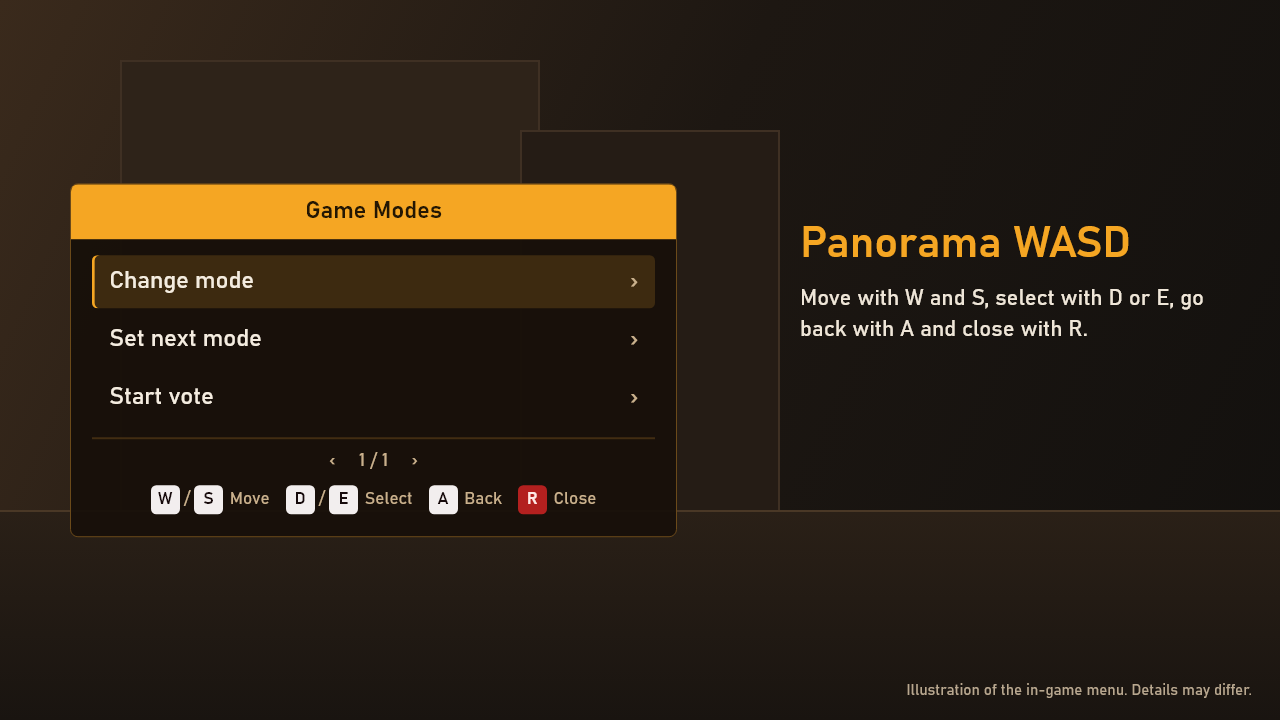
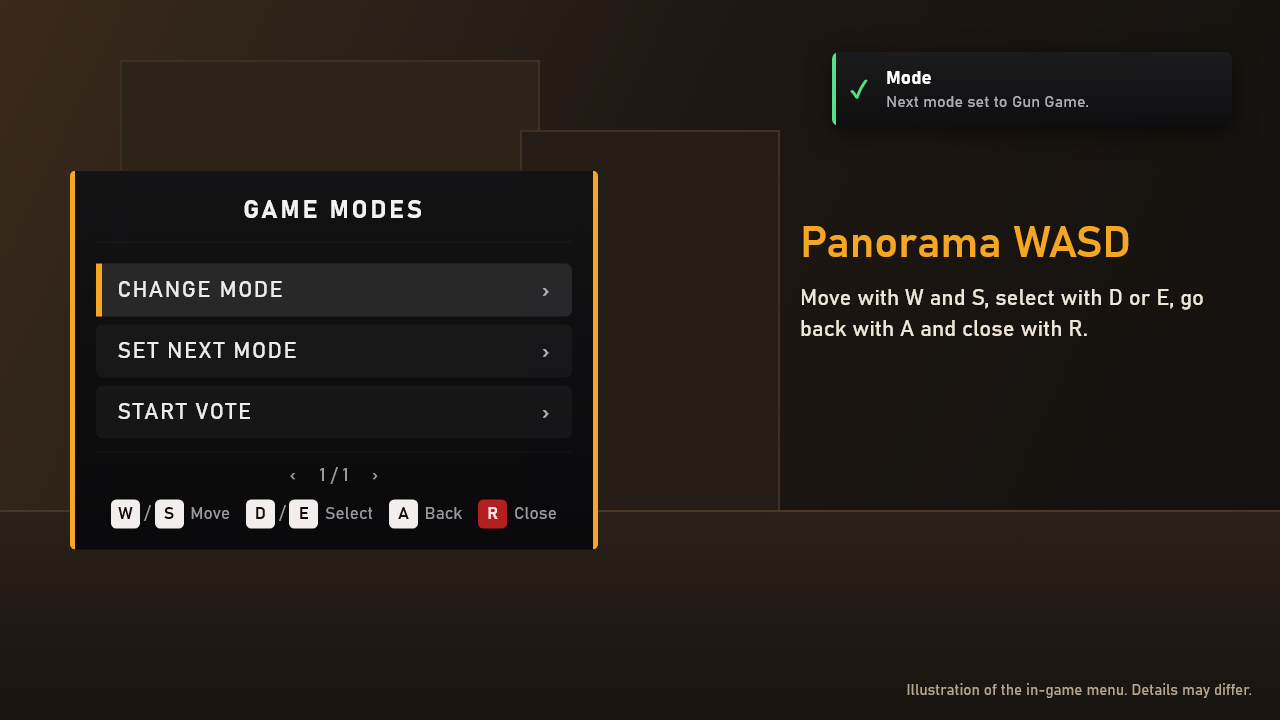
chore: one Mono look for the menus, vote panels, admin panel and notifications (#75)
Menus, vote panels, the admin panel and notifications share PMM's Mono background, outline and blur. Empty menu rows are hidden, the vote panel has key buttons in mouse mode, and the admin panel uses the menus' grey text with a subtle highlight. The mockups, README pictures and Workshop pictures are redrawn.

diff --git a/addon/mockups/scenes.html b/addon/mockups/scenes.html
@@ -10,12 +10,14 @@ html,body{width:1280px;height:720px;overflow:hidden;background:#12100e;font-fami
 .host{position:absolute;left:70px;top:50%;transform:translateY(-50%)}
 .host>*{zoom:1.32}
 .side{position:absolute;left:800px;top:220px;width:420px}
+.ntf{position:absolute;display:flex;align-items:center;width:400px;min-height:74px;background:linear-gradient(180deg,rgba(28,28,31,.95),rgba(14,14,16,.96));border-radius:7px;box-shadow:0 6px 24px rgba(0,0,0,.55);overflow:hidden;z-index:5;backdrop-filter:blur(4px)}.ntf::before{content:"";position:absolute;left:0;top:0;bottom:0;width:4px;background:#57e08a}.ntf.warn::before{background:#ffcf5c}.ntf .ni{width:54px;flex:none;text-align:center;font-size:24px;font-weight:700;color:#57e08a}.ntf.warn .ni{color:#ffcf5c}.ntf .nb{padding:12px 18px 12px 0}.ntf .nt{font-size:19px;font-weight:700;color:#fff}.ntf .nx{font-size:16px;color:#b0b0b4;margin-top:3px}
+.stage>.ntf{top:52px;right:48px}
 .side h1{font-size:44px;font-weight:600;color:#f5a623;line-height:1.1}
 .side p{margin-top:16px;font-size:22px;line-height:1.4;color:#efe6d8}
 .note{position:absolute;right:28px;bottom:20px;font-size:15px;color:#b8a78f}
 .brandline{position:absolute;right:28px;top:22px;font-size:15px;letter-spacing:1px;color:#b8a78f}
 
-.pm{width:400px;background:linear-gradient(180deg,rgba(18,18,20,.92),rgba(8,8,10,.95));border-radius:4px;position:relative;overflow:hidden}
+.pm{width:400px;background:linear-gradient(180deg,rgba(18,18,20,.92),rgba(8,8,10,.95));border-radius:4px;position:relative;overflow:hidden;backdrop-filter:blur(4px)}
 .pm::before,.pm::after{content:"";position:absolute;top:0;bottom:0;width:4px;background:#f5a623;z-index:2}.pm::before{left:0}.pm::after{right:0}
 .pm .band{height:46px;padding:14px 72px 0;box-sizing:border-box;white-space:nowrap;color:#f2f2f2;font-size:19px;font-weight:700;letter-spacing:2px;text-transform:uppercase;display:flex;align-items:center;justify-content:center}
 .pm .ic{position:absolute;top:10px;width:24px;height:24px;color:#c8c8cc;font-size:20px;line-height:24px;text-align:center;font-weight:700}
@@ -40,12 +42,12 @@ html,body{width:1280px;height:720px;overflow:hidden;background:#12100e;font-fami
 .cg .r.off{color:#e9e4d0}
 .cg .gap{height:14px}
 
-.mv{width:420px;background:linear-gradient(180deg,#161c28f2,#0b0f17f2);border:1px solid #f5a623aa;border-radius:12px;padding:14px 16px 16px}
+.mv{width:420px;background:linear-gradient(180deg,rgba(18,18,20,.92),rgba(8,8,10,.95));border:1px solid #ffffff14;border-radius:12px;padding:14px 16px 16px;backdrop-filter:blur(4px)}
 .mv .head{display:flex;align-items:center;gap:10px}
 .mv .ht{flex:1}.mv .br{font-size:12px;letter-spacing:2px;color:#f5a623}.mv .ti{font-size:26px;color:#fff;font-weight:600}
 .mv .tm{height:30px;padding:0 12px;line-height:28px;border:1px solid #f5a62399;border-radius:15px;background:#f5a6231a;color:#f5a623;font-size:15px;font-weight:600}
 .mv .tb{height:3px;background:#ffffff14;border-radius:2px;margin:10px 0 12px}.mv .tb i{display:block;height:3px;width:62%;background:#f5a623;border-radius:2px}
-.mv .ro{display:flex;align-items:center;gap:10px;padding:7px 8px;border-radius:8px;margin-bottom:6px;background:#ffffff0d}
+.mv .ro{display:flex;align-items:center;gap:10px;padding:7px 8px;border-radius:8px;margin-bottom:6px;background:#ffffff0a}
 .mv .ro.me{background:#f5a6231f;box-shadow:inset 0 0 0 1px #f5a62380}
 .mv .n{width:24px;height:24px;border-radius:12px;background:#ffffff1f;text-align:center;line-height:24px;font-size:13px;font-weight:600;flex:none}
 .mv .art{width:80px;height:45px;border-radius:4px;background-size:cover;background-position:center;flex:none;background-color:#222}
@@ -53,22 +55,22 @@ html,body{width:1280px;height:720px;overflow:hidden;background:#12100e;font-fami
 .mv .ln{display:flex;align-items:center;gap:6px;font-size:17px;color:#fff;font-weight:600}
 .mv .bd{font-size:11px;padding:1px 5px;border-radius:3px;color:#10131a;background:#f5a623}
 .mv .bar{height:4px;background:#ffffff14;border-radius:2px;margin-top:6px}.mv .bar i{display:block;height:4px;background:#f5a623;border-radius:2px}
-.mv .vf{display:flex;align-items:center;margin-top:9px;font-size:12px;color:#c9cfdc;white-space:nowrap}.mv .vf .vk{width:18px;height:18px;line-height:18px;text-align:center;font-size:11px;background:#f2eeee;color:#160a0b;border-radius:3px;font-weight:600}.mv .vf .vo{margin:0 3px}.mv .vf .vn{margin:0 10px 0 4px}.mv .vf .vc{margin-left:auto}
+.mv .vf{display:flex;align-items:center;margin-top:9px;font-size:12px;color:#9a9a9e;white-space:nowrap}.mv .vf .vk{width:18px;height:18px;line-height:18px;text-align:center;font-size:11px;background:#f2eeee;color:#160a0b;border-radius:3px;font-weight:600}.mv .vf .vo{margin:0 3px}.mv .vf .vn{margin:0 10px 0 4px}.mv .vf .vc{margin-left:auto}
 .mv .c{width:24px;text-align:right;font-size:17px;font-weight:600;color:#e3e7f0;flex:none}
 
-.sa{width:460px;background:#160a0bf2;border:1px solid #5c1a1c;border-radius:6px;overflow:hidden}
-.sa .hd{display:flex;align-items:center;height:42px;padding:0 14px;background:#b3201f}
+.sa{width:430px;background:linear-gradient(180deg,rgba(18,18,20,.92),rgba(8,8,10,.95));border:1px solid #ffffff14;border-radius:6px;overflow:visible;backdrop-filter:blur(4px)}
+.sa .hd{margin:-1px -1px 0;border-radius:6px 6px 0 0;display:flex;align-items:center;height:42px;padding:0 14px;background:#b3201f}
 .sa .brand{flex:1;font-size:13px;letter-spacing:1.8px;font-weight:600;color:#ffe9e6}.sa .cnt{font-size:13px;color:#ffd7d2}
-.sa .tl{padding:12px 16px 8px}.sa .cr{font-size:13px;color:#b79c99}.sa .tt{font-size:22px;font-weight:600;color:#f4e9e7;margin-top:2px}.sa .su{font-size:13px;color:#c9a9a5;margin-top:3px}
+.sa .tl{padding:12px 16px 8px}.sa .cr{font-size:13px;color:#9a9a9e}.sa .tt{font-size:22px;font-weight:600;color:#f2f2f2;margin-top:2px}.sa .su{font-size:13px;color:#b0b0b4;margin-top:3px}
 .sa .list{padding:0 8px 14px}
-.sa .rw{display:flex;align-items:center;height:42px;padding:0 10px;font-size:17px;color:#f4e9e7;border-radius:4px}
-.sa .rw.on{background:#3a1012;box-shadow:inset 3px 0 0 #ff4a3d}
-.sa .rw span{flex:1}.sa .ar{flex:none;color:#7a5c59;font-size:20px}
-.sa .ico{width:28px;height:28px;margin-right:12px;flex:none;color:#ff6b5e}
+.sa .rw{display:flex;align-items:center;height:42px;padding:0 10px;font-size:17px;color:#ececec;border-radius:5px}
+.sa .rw{position:relative}.sa .rw.on{background:#ffffff12}.sa .rw.on::before{content:"";position:absolute;left:0;top:0;bottom:0;width:3px;border-radius:2px;background:#d83a30}
+.sa .rw span{flex:1}.sa .ar{flex:none;color:#9a9a9e;font-size:22px}
+.sa .ico{width:28px;height:28px;margin-right:12px;flex:none;color:#eb5247}
 .sa .pill{flex:none;width:50px;height:24px;line-height:24px;text-align:center;border-radius:4px;font-size:13px;font-weight:600;letter-spacing:1px}
-.sa .pill.on{background:#2f4a22;color:#a6d86a}.sa .pill.off{background:#ffffff14;color:#9c8582}
-.sa .val{flex:none;font-size:14px;color:#9c8582;margin-right:8px}
-.sa .bot{display:flex;justify-content:space-between;padding:12px 24px 14px;font-size:15px;color:#b79c99;border-top:1px solid #5c1a1c80}
+.sa .pill.on{background:#2f4a22;color:#a6d86a}.sa .pill.off{background:#ffffff14;color:#b0b0b4}
+.sa .val{flex:none;font-size:15px;color:#b0b0b4;margin-right:8px}
+.sa .bot{display:flex;justify-content:space-between;padding:12px 24px 14px;font-size:15px;color:#c8c8cc;border-top:1px solid #ffffff14}
 </style></head>
 <body><div class="stage"><div class="wall"></div><div class="wall b"></div><div class="floor"></div>
 <div class="host" id="host"></div>
@@ -110,6 +112,9 @@ admin:{h:'Admin panel',p:'CS2-SimpleAdmin on its own panel, in red so admin tool
   '<div class="rw"><span>Empty server wait</span><div class="val">10 min</div><div class="ar">&rsaquo;</div></div>'+
   '</div><div class="bot"><span>Back</span><span>Close</span></div></div>'}
 };
+// A notification for each scene, the way PMM shows one beside the menu
+var notes={wasd:['ok','Mode','Next mode set to Gun Game.'],mouse:['ok','Map','Changing the map to de_inferno.'],digits:['warn','Mode','de_dust2 isn\'t in the Surf map pool.'],vote:['ok','Vote','You voted aim_map.'],admin:['ok','Setting','Alltalk enabled.']};
+function note(n){return n?'<div class="ntf'+(n[0]=='warn'?' warn':'')+'"><div class="ni">'+(n[0]=='warn'?'!':'&#10003;')+'</div><div class="nb"><div class="nt">'+n[1]+'</div><div class="nx">'+n[2]+'</div></div></div>':''}
 var s=scenes[location.hash.slice(1)]||scenes.wasd;
-document.getElementById('host').innerHTML=s.m;document.getElementById('h').textContent=s.h;document.getElementById('p').textContent=s.p;
+document.getElementById('host').innerHTML=s.m;document.querySelector('.stage').insertAdjacentHTML('beforeend',note(notes[location.hash.slice(1)||'wasd']));document.getElementById('h').textContent=s.h;document.getElementById('p').textContent=s.p;
 </script></body></html>

diff --git a/addon/mockups/thumbnail.html b/addon/mockups/thumbnail.html
@@ -23,26 +23,27 @@ html,body{width:1280px;height:720px;overflow:hidden;font-family:"Bahnschrift","S
 .k.x{background:#b3201f;color:#ffe9e6}
 .w{margin:0 9px 0 4px}.w.e{margin-right:0}.o{margin:0 3px;color:#9a9a9e}
 
-.mv{left:30px;top:240px;width:420px;z-index:2;background:#121723;border:1px solid #f5a62399;border-radius:12px;padding:14px 16px 16px;color:#fff}
+.mv{left:30px;top:240px;width:420px;z-index:2;background:linear-gradient(180deg,rgba(18,18,20,.97),rgba(8,8,10,.98));border:1px solid #ffffff14;border-radius:12px;padding:14px 16px 16px;color:#fff}
 .br{font-size:12px;letter-spacing:2px;color:#f5a623}.ti{font-size:25px;font-weight:600;margin-top:1px}
 .vh{display:flex;align-items:center;gap:10px}.vt{flex:1}.tm{height:30px;padding:0 12px;line-height:28px;border:1px solid #f5a62399;border-radius:15px;background:#f5a6231a;color:#f5a623;font-size:15px;font-weight:600}
 .num{width:24px;height:24px;border-radius:12px;background:#ffffff1f;text-align:center;line-height:24px;font-size:13px;font-weight:600;flex:none}
 .ln{display:flex;align-items:center;gap:6px}.bd{font-size:11px;padding:1px 5px;border-radius:3px;color:#10131a;background:#f5a623}
-.bot{display:flex;justify-content:space-between;padding:12px 24px 14px;font-size:15px;color:#b79c99;border-top:1px solid #5c1a1c80}
+.bot{display:flex;justify-content:space-between;padding:12px 24px 14px 36px;font-size:15px;color:#c8c8cc;border-top:1px solid #ffffff14}
 .tb{height:3px;background:#ffffff14;border-radius:2px;margin:10px 0 12px}.tb i{display:block;height:3px;width:62%;background:#f5a623;border-radius:2px}
-.ro{display:flex;align-items:center;gap:10px;padding:7px 8px;border-radius:8px;margin-bottom:6px;background:#ffffff0d}
+.ro{display:flex;align-items:center;gap:10px;padding:7px 8px;border-radius:8px;margin-bottom:6px;background:#ffffff0a}
 .ro.me{background:#f5a6231f;box-shadow:inset 0 0 0 1px #f5a62380}
 .art{width:80px;height:45px;border-radius:4px;background-size:cover;background-position:center;background-color:#222;flex:none}
 .in{flex:1;font-size:17px;font-weight:600}.bar{height:4px;background:#ffffff14;border-radius:2px;margin-top:6px}.bar i{display:block;height:4px;background:#f5a623;border-radius:2px}
-.vf{display:flex;align-items:center;margin-top:9px;font-size:12px;color:#c9cfdc;white-space:nowrap}.vk{width:18px;height:18px;line-height:18px;text-align:center;font-size:11px;background:#f2eeee;color:#160a0b;border-radius:3px;font-weight:600}.vo{margin:0 3px}.vn{margin:0 10px 0 4px}.vc{margin-left:auto}
+.vf{display:flex;align-items:center;margin-top:9px;font-size:12px;color:#9a9a9e;white-space:nowrap}.vk{width:18px;height:18px;line-height:18px;text-align:center;font-size:11px;background:#f2eeee;color:#160a0b;border-radius:3px;font-weight:600}.vo{margin:0 3px}.vn{margin:0 10px 0 4px}.vc{margin-left:auto}
 .c{width:22px;text-align:right;font-size:17px;font-weight:600;color:#e3e7f0}
 
-.sa{left:830px;top:240px;width:420px;z-index:2;background:#160a0b;border:1px solid #7a2224;border-radius:8px;overflow:hidden;color:#f4e9e7}
-.hd{height:44px;line-height:44px;padding:0 16px;background:#b3201f;font-size:13px;letter-spacing:1.8px;font-weight:600;color:#ffe9e6}
-.tl{padding:12px 18px 6px}.cr{font-size:13px;color:#b79c99}.tt{font-size:22px;font-weight:600;margin-top:2px}
-.ls{padding:0 10px 10px}
-.rw{display:flex;align-items:center;height:44px;padding:0 10px;font-size:18px}
-.rw svg{width:26px;height:26px;margin-right:12px;color:#ff6b5e;flex:none}.rw span{flex:1}.rw u{text-decoration:none;color:#7a5c59;font-size:20px}
+.sa{left:830px;top:240px;width:420px;z-index:2;background:linear-gradient(180deg,rgba(18,18,20,.97),rgba(8,8,10,.98));border:1px solid #ffffff14;border-radius:8px;overflow:visible;color:#ececec}
+.hd{margin:-1px -1px 0;border-radius:8px 8px 0 0;height:44px;line-height:44px;padding:0 16px 0 28px;background:#b3201f;font-size:13px;letter-spacing:1.8px;font-weight:600;color:#ffe9e6}
+.tl{padding:12px 18px 6px 30px}.cr{font-size:13px;color:#9a9a9e}.tt{font-size:22px;font-weight:600;margin-top:2px;color:#f2f2f2}
+.ls{padding:0 10px 10px 22px}
+.rw{display:flex;align-items:center;height:44px;padding:0 10px;font-size:18px;color:#ececec}
+.rw{position:relative}.rw.on{background:#ffffff12;border-radius:5px}.rw.on::before{content:"";position:absolute;left:0;top:0;bottom:0;width:3px;border-radius:2px;background:#d83a30}.rw.on u{color:#d83a30}
+.rw svg{width:26px;height:26px;margin-right:12px;color:#eb5247;flex:none}.rw span{flex:1}.rw u{text-decoration:none;color:#9a9a9e;font-size:22px}
 </style></head><body><div class="s">
 <div class="head"><div class="n">GameModeManager <b>Menus</b></div><div class="d">Panorama menus and vote panels for CS2 servers</div></div>
 
@@ -55,7 +56,7 @@ html,body{width:1280px;height:720px;overflow:hidden;font-family:"Bahnschrift","S
 </div>
 
 <div class="card sa"><div class="hd">ADMIN MENU</div><div class="tl"><div class="cr">Main &rsaquo;</div><div class="tt">Manage game</div></div><div class="ls">
- <div class="rw"><svg viewBox="0 0 24 24" fill="none" stroke="currentColor" stroke-width="2.2" stroke-linecap="round" stroke-linejoin="round"><path d="M3 7h3c5 0 7 10 12 10h3M3 17h3c1.800 0 3.300-1.300 4.600-3M14 8.500C15.200 7.600 16.500 7 18 7h3M18 4l3 3-3 3M18 14l3 3-3 3"/></svg><span>Maps</span><u>&rsaquo;</u></div>
+ <div class="rw on"><svg viewBox="0 0 24 24" fill="none" stroke="currentColor" stroke-width="2.2" stroke-linecap="round" stroke-linejoin="round"><path d="M3 7h3c5 0 7 10 12 10h3M3 17h3c1.800 0 3.300-1.300 4.600-3M14 8.500C15.200 7.600 16.500 7 18 7h3M18 4l3 3-3 3M18 14l3 3-3 3"/></svg><span>Maps</span><u>&rsaquo;</u></div>
  <div class="rw"><svg viewBox="0 0 24 24" fill="none" stroke="currentColor" stroke-width="2.2" stroke-linecap="round" stroke-linejoin="round"><path d="M8 21h8M12 17v4M7 4h10v7a5 5 0 0 1-10 0zM7 6H4v2a3 3 0 0 0 3 3M17 6h3v2a3 3 0 0 1-3 3"/></svg><span>Modes</span><u>&rsaquo;</u></div>
  <div class="rw"><svg viewBox="0 0 24 24" fill="none" stroke="currentColor" stroke-width="2.2" stroke-linecap="round" stroke-linejoin="round"><path d="M4 13l5 5L20 7"/></svg><span>Settings</span><u>&rsaquo;</u></div>
  <div class="rw"><svg viewBox="0 0 24 24" fill="none" stroke="currentColor" stroke-width="2.2" stroke-linecap="round" stroke-linejoin="round"><circle cx="12" cy="14" r="7"/><path d="M12 11v3l2 2M10 3h4M12 3v4"/></svg><span>Warmup</span><u>&rsaquo;</u></div>

diff --git a/addon/admin_theme.css b/addon/admin_theme.css
@@ -1,0 +1,73 @@
+
+/* ==== Appended to PMM_SimpleAdmin's stylesheet by build-menu-addon.ps1: Mono's background and border, like the menus and the vote
+   panel. The red header and accents stay, so admin tools still stand apart. ==== */
+.sa-root
+{
+	width: 430px; /* PMM_SimpleAdmin's 460px, a little narrower: still wider than the menus (400px) and the vote panel (420px) */
+	background-color: gradient( linear, 0% 0%, 0% 100%, from( rgba(18, 18, 20, 0.92) ), to( rgba(8, 8, 10, 0.95) ) ); /* The menus' gradient */
+	border: 1px solid #ffffff14; /* The vote panel's outline. The red header covers it, below. */
+	overflow: noclip noclip; /* So the header can reach over the outline. Nothing else in the panel goes past its edge. */
+	world-blur: gaussian(2, 2, 2); /* Like the menus: the game behind is blurred, so the panel looks the same over bright maps */
+}
+
+.sa-foot
+{
+	border-top: 1px solid #ffffff14;
+}
+
+.sa-pill
+{
+	background-color: #ffffff14;
+}
+
+/* Icons keep their own shape: PMM_SimpleAdmin stretches them to a square, which squashes tall ones like Manage players' */
+.sa-ic
+{
+	background-size: contain;
+	background-position: 50% 50%;
+	background-repeat: no-repeat;
+}
+
+/* The row under the mouse: a subtle grey instead of dark red, like the mockups. Panorama blends this about four times stronger
+   than a browser, so 2% white here looks like the mockups' 7%. The red bar and arrow stay as the admin accent. */
+.sa-row:hover,
+.sa-fb:hover
+{
+	background-color: #ffffff05;
+}
+
+/* The red header reaches over the outline at the top and sides, so there's no light line around it. The panel is 430px wide
+   (set above), so the header is too, starting 1px left of it. Its top corners are rounded like the panel's, which no longer clips them. */
+.sa-head
+{
+	width: 430px;
+	margin: -1px 0px 0px -1px;
+	border-radius: 6px 6px 0px 0px;
+}
+
+/* The menus' greys for the text, instead of PMM_SimpleAdmin's reddish ones. The header, icons, keys and danger rows stay red. */
+.sa-title { color: #f2f2f2; }
+.sa-lab { color: #ececec; }
+.sa-crumb { color: #9a9a9e; }
+.sa-sub { color: #b0b0b4; }
+.sa-hint { color: #b0b0b4; }
+.sa-pill { color: #b0b0b4; }
+.sa-arrow { color: #9a9a9e; }
+.sa-ft { color: #c8c8cc; }
+.sa-row.r-dim .sa-lab, .sa-row.r-dis .sa-lab { color: #6e6e73; }
+
+/* The highlighted row's bar and arrow in a softer red than PMM_SimpleAdmin's, nearer the header, so they don't glow on the dark
+   row. The arrow sits about as far from the right edge as the text is from the left. */
+.sa-row:hover .sa-rbar { background-color: #d83a30; }
+.sa-row:hover .sa-arrow { color: #d83a30; }
+.sa-arrow { margin-right: 18px; }
+
+/* Rows rounded like the menus' (PMM uses 5px, PMM_SimpleAdmin 4px) */
+.sa-row { border-radius: 5px; }
+
+/* The counts, values and arrow on the right a touch bigger (PMM_SimpleAdmin: 13px and 20px), so they read next to the labels */
+.sa-hint { font-size: 14px; }
+.sa-arrow { font-size: 22px; }
+
+/* The icons halfway between PMM_SimpleAdmin's light red (#ff6b5e) and the highlighted row's (#d83a30) */
+.sa-ic { wash-color: #eb5247; }

diff --git a/addon/vote_footer.css b/addon/vote_footer.css
@@ -1,5 +1,6 @@
 
-/* ==== Keycap footers on the vote, nominate and settings panels. Appended to PMM_GG1MapChooser's stylesheet by build-menu-addon.ps1 ==== */
+/* ==== Appended to PMM_GG1MapChooser's stylesheet by build-menu-addon.ps1: the Mono look of the menus, and keycap footers on the vote,
+   nominate and settings panels ==== */
 .mv-root.mode-wasd .mv-hint-wasd,
 .mv-root.mode-digits .mv-hint-digits
 {
@@ -55,7 +56,7 @@
 	margin-right: 3px;
 	padding-top: 1px;
 	font-size: 12px;
-	color: #c9cfdc;
+	color: #9a9a9e;
 }
 
 .gmm-vote-key-name
@@ -64,7 +65,7 @@
 	margin-right: 10px;
 	padding-top: 1px;
 	font-size: 12px;
-	color: #c9cfdc;
+	color: #9a9a9e;
 }
 
 /* The vote panel has its count on the right, so its keys stay left. These two have no count, so theirs are centred. */
@@ -81,4 +82,99 @@
 {
 	width: fit-children;
 	horizontal-align: center;
+}
+
+/* ==== The Mono look, like the menus: PMM's Mono background, grey rows and text, and orange for the row that's picked ==== */
+.mv-vote,
+.mv-card
+{
+	background-color: gradient( linear, 0% 0%, 0% 100%, from( rgba(18, 18, 20, 0.92) ), to( rgba(8, 8, 10, 0.95) ) );
+	border: 1px solid #ffffff14;
+	world-blur: gaussian(2, 2, 2); /* Like the menus: the game behind is blurred, so the panel looks the same over bright maps */
+}
+
+.mv-row
+{
+	background-color: #ffffff0a;
+	border: 1px solid #00000000;
+}
+
+/* The row under the W/S highlight: orange like the menus' focus bar, instead of white */
+.mv-row.is-cur
+{
+	background-color: #ffffff1a;
+	border: 1px solid #f5a623;
+}
+
+.mv-row.is-cur .mv-num
+{
+	border: 1px solid #f5a623;
+}
+
+.mv-num Label
+{
+	color: #ececec;
+}
+
+.mv-hint
+{
+	color: #9a9a9e;
+}
+
+.mv-voted
+{
+	color: #b0b0b4;
+}
+
+.mv-x Label
+{
+	color: #c8c8cc;
+}
+
+.mv-gear-ic
+{
+	wash-color: #c8c8cc;
+}
+
+.mv-gear-name
+{
+	color: #ececec;
+}
+
+/* ==== Mouse mode on the vote panel: keycaps for voting in chat instead of the text hint, like the other modes ==== */
+#mv-root .mv-hint-click
+{
+	visibility: collapse;
+}
+
+#mv-root .gmm-vote-keys-click
+{
+	visibility: visible;
+}
+
+#mv-root.mode-chat .gmm-vote-keys-click,
+#mv-root.mode-wasd .gmm-vote-keys-click,
+#mv-root.mode-digits .gmm-vote-keys-click,
+#mv-root.done .gmm-vote-keys-click
+{
+	visibility: collapse;
+}
+
+/* After voting in mouse mode, the hint line is the "done" message, as in the other modes */
+#mv-root.done .mv-hint-click
+{
+	visibility: visible;
+}
+
+#mv-root.done.mode-chat .mv-hint-click,
+#mv-root.done.mode-wasd .mv-hint-click,
+#mv-root.done.mode-digits .mv-hint-click
+{
+	visibility: collapse;
+}
+
+/* "!1" is wider than a single key */
+.gmm-vote-keys-click .gmm-vote-key
+{
+	width: 22px;
 }

diff --git a/addon/menu_theme.css b/addon/menu_theme.css
@@ -10,10 +10,19 @@
 	color: #F2F2F2;
 }
 
-/* Notifications use the menu's Mono background. The constructor's Mono leaves them PMM's blue. */
+/* Notifications use Mono's colours, a little lighter at the top than the menus, so the small box isn't so dark. The
+   constructor's Mono leaves them PMM's blue. */
 .utils-notify
 {
-	background-color: gradient( linear, 0% 0%, 0% 100%, from( rgba(18, 18, 20, 0.92) ), to( rgba(8, 8, 10, 0.95) ) );
+	background-color: gradient( linear, 0% 0%, 0% 100%, from( rgba(28, 28, 31, 0.95) ), to( rgba(14, 14, 16, 0.96) ) );
+	world-blur: gaussian(2, 2, 2); /* Blurred behind like the menus: PMM only blurs the menu's background */
+}
+
+/* The success tick: PMM's long bar ends about half a pixel below and right of the short one, so the bottom looks flat and
+   smeared. 1px higher, its end lands on the short bar's, so the two meet in a sharp V. */
+.ntf-ok-long
+{
+	margin-bottom: 7px;
 }
 
 /* PMM never sets a description, but the empty line still takes up height */
@@ -39,10 +48,36 @@
 	visibility: collapse;
 }
 
-/* An empty row slot flashes PMM's row colour as it fills: keep it clear */
+/* PMM always has six row slots and marks unused ones k-empty. Hide those and let the menu shrink to the rows it has.
+   The row spacing moves from the slot to the item, so a slot with a hidden item takes no space. Clear, so it doesn't flash. */
 .utils-item.k-empty
 {
+	visibility: collapse;
 	background-color: #00000000;
+	border: 0px solid transparent;
+}
+
+.utils-buttons
+{
+	height: fit-children;
+}
+
+.utils-slot
+{
+	height: fit-children;
+	margin: 0px;
+}
+
+.utils-item
+{
+	margin: 4px 0px;
+}
+
+/* A dropdown that's open: PMM's own size, with the spacing above */
+.utils-slot.is-open
+{
+	height: 178px;
+	margin-bottom: -130px;
 }
 
 /* The WASD and number key footers: keycaps instead of PMM's text hint */
